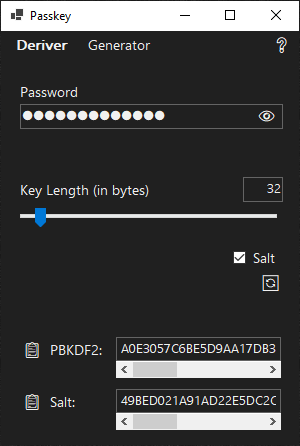
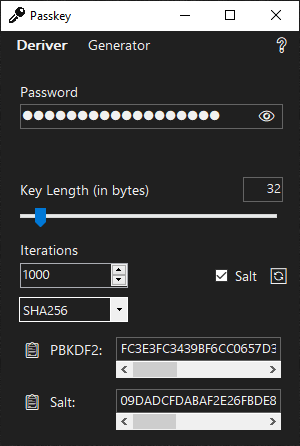
Updated README

diff --git a/WinFormsUI/Display.Designer.cs b/WinFormsUI/Display.Designer.cs
@@ -325,7 +325,7 @@
             DeriverPanel_IterationsNumericUpDown.Name = "DeriverPanel_IterationsNumericUpDown";
             DeriverPanel_IterationsNumericUpDown.Size = new Size(108, 25);
             DeriverPanel_IterationsNumericUpDown.TabIndex = 23;
-            DeriverPanel_IterationsNumericUpDown.Value = new decimal(new int[] { 1, 0, 0, 0 });
+            DeriverPanel_IterationsNumericUpDown.Value = new decimal(new int[] { 1000, 0, 0, 0 });
             DeriverPanel_IterationsNumericUpDown.ValueChanged += DeriverPanel_IterationsNumericUpDown_ValueChanged;
             // 
             // DeriverPanel_AlgorithmComboBox

diff --git a/README.md b/README.md
@@ -52,6 +52,8 @@ The Deriver panel allows a key of variable length to be derived from a password 
 - **👁**: reveals the password.
 - **Key Length (in bytes)**: the desired length of the key in bytes.
 - **Slider**: adjusts the key length.
+- **Iterations**: sets the number of iterations in the derivation.
+- **Algorithm Dropdown**: sets the hashing algorithm.
 - **Salt**: adds a randomly generated salt to the password before derivation.
 - **🔄**: generates a new random salt and recomputes the key.
 - **📋**: copies a value to the clipboard.
@@ -87,5 +89,5 @@ The Generator panel allows creation of a symmetric or asymmetric key pair using 
 - **Framework**: .NET
 - **UI**: Windows Forms
 - **Version Control**: Git / GitHub
-- **Algorithms**: PBKDF2, RSA, ECDSA
+- **Algorithms**: PBKDF2, RSA, ECDSA, SHA1, SHA256, SHA384, SHA512
 - **Unit Tests**: xUnit
